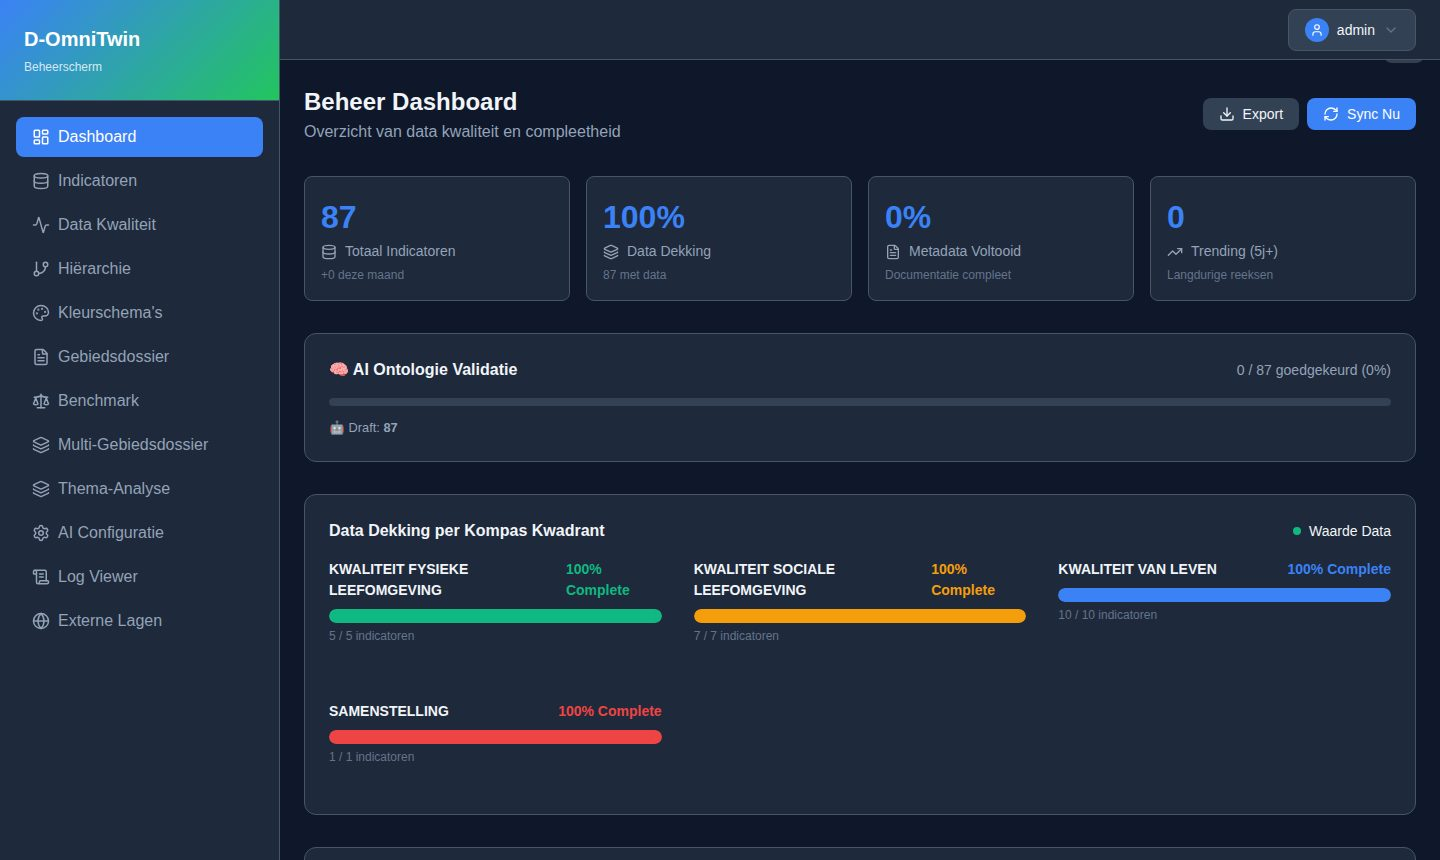
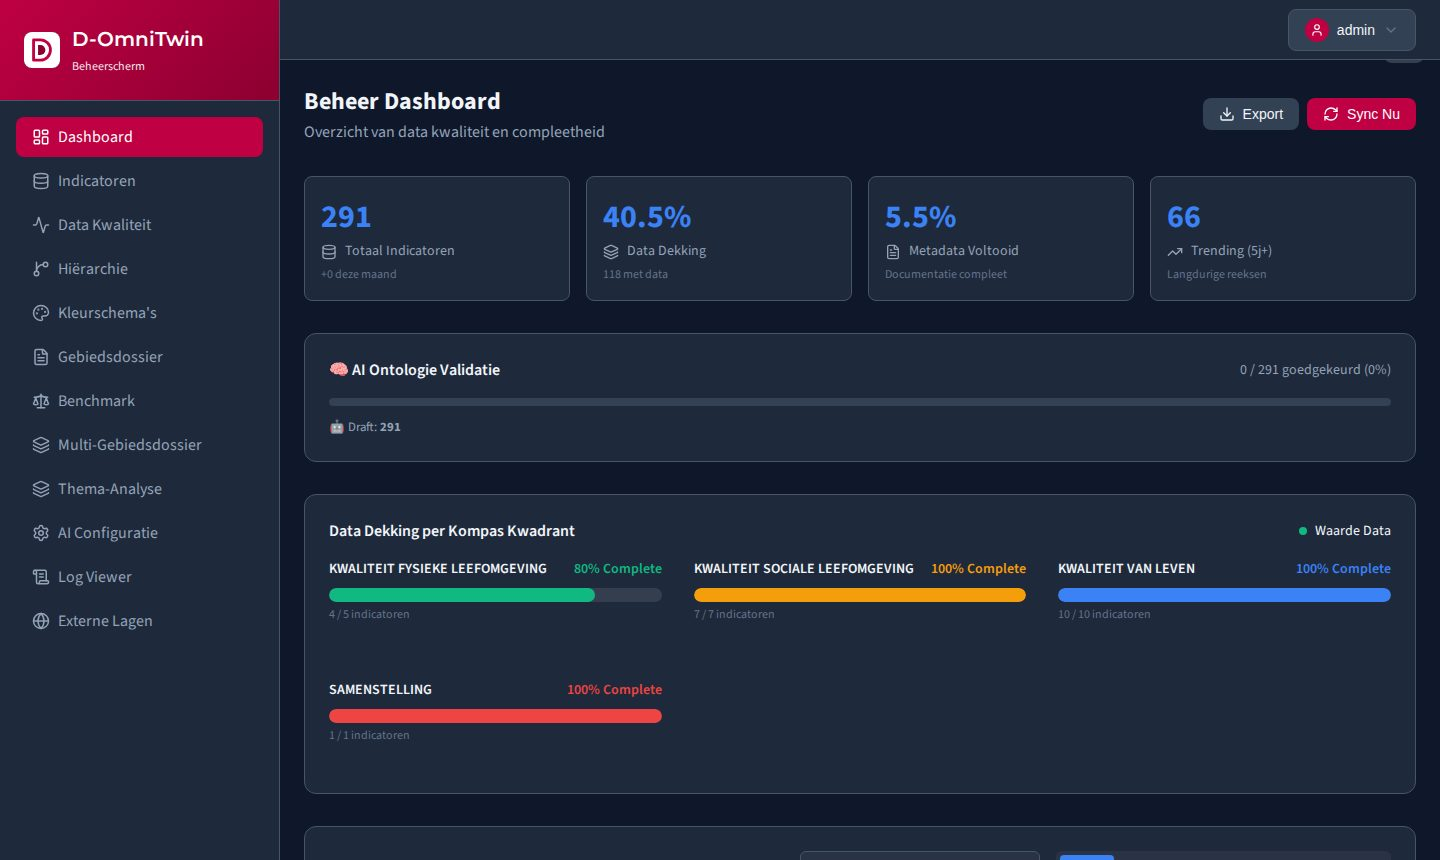
docs: README-screenshots van v0.3.0-rc.1 (SWF-thema, volledige vulling)
De vier schermafbeeldingen in docs/images kwamen van een oudere versie (blauw-groen thema,
sample-data). Nieuw gemaakt op de demo-installatie van 0.3.0-rc.1; de demobalk is uit beeld
gehaald omdat die alleen bij OMNITWIN_OMGEVING=demo hoort. Bijschriften bijgewerkt.

diff --git a/README.md b/README.md
@@ -82,19 +82,19 @@ Voor een installatie bij je organisatie (vereisten, `.env`, backup, bijwerken, H
 
 ## Zo ziet het eruit
 
-Schermafbeeldingen van een verse installatie met de use cases, ingezoomd op Bolsward.
+Schermafbeeldingen van versie 0.3.0-rc.1 met het SWF-thema en een volledige vulling (open data en de SWF-monitor), ingezoomd op Bolsward.
 
 ![Kaart: buurten in Bolsward gekleurd op een indicator, met PDOK-achtergrondkaart](docs/images/kaart-bolsward.jpg)
-*Kaart: buurten gekleurd op een indicator (hier "Afstand tot koele plek"), PDOK-achtergrondkaart.*
+*Kaart na de hittestress-vraag aan de assistent: buurten gekleurd op "Afstand tot koele plek", de vier Bolsward-buurten geselecteerd, PDOK-achtergrondkaart.*
 
-![Kompas: sunburst met de thema's voor buurt Bolsward-Zuidoost](docs/images/kompas-bolsward-zuidoost.jpg)
-*D-Omni Kompas voor Bolsward-Zuidoost: alle indicatoren in thema's, gekleurd ten opzichte van de referentiegroep.*
+![Kompas: sunburst met de thema's voor de vier Bolsward-buurten](docs/images/kompas-bolsward-zuidoost.jpg)
+*D-Omni Kompas voor de vier Bolsward-buurten uit de vraag (gemiddelde): alle indicatoren in thema's, gekleurd ten opzichte van de referentiegroep.*
 
 ![Chat: de D-Omni Assistent met het scenario Beleidsadviseur](docs/images/chat-beleidsadviseur.jpg)
 *D-Omni Assistent: het scenario "Beleidsadviseur" zet kaart en Kompas klaar.*
 
 ![Beheerscherm: dashboard met datadekking per Kompas-kwadrant](docs/images/beheer-dashboard.jpg)
-*Beheerscherm (`/admin`): indicatoren, datakwaliteit, AI-configuratie en rapportage.*
+*Beheerscherm (`/admin`, inloggen via Keycloak): indicatoren, datakwaliteit, AI-configuratie en rapportage.*
 
 De screenshots maak je opnieuw met [`scripts/docs/maak_screenshots.py`](scripts/docs/maak_screenshots.py).
 
